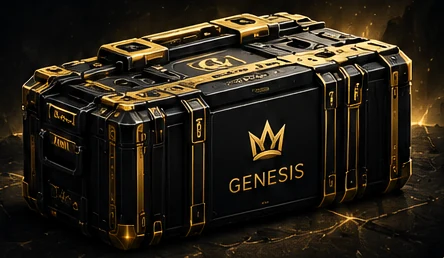
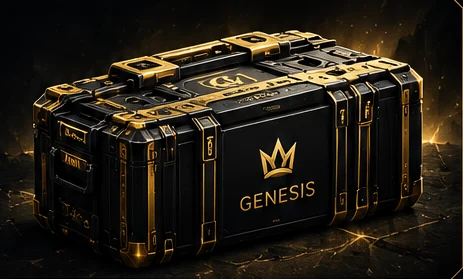
Fix Genesis season hero and date default

diff --git a/src/components/SeasonTab.tsx b/src/components/SeasonTab.tsx
@@ -118,22 +118,38 @@ export default function SeasonTab({ isServerGame, season, loading = false, onSea
 
   return (
     <section className="mx-auto w-full max-w-5xl space-y-4 pb-6 text-white">
-      <header className="relative isolate grid min-h-[210px] grid-cols-[1fr_0.8fr] overflow-hidden rounded-[26px] border border-amber-400/35 bg-[#090b0d] shadow-[0_18px_60px_rgba(0,0,0,.4)] sm:min-h-[260px]">
-        <div className="pointer-events-none absolute inset-0 -z-10 bg-[radial-gradient(ellipse_at_78%_55%,rgba(214,155,38,.22),transparent_40%),linear-gradient(105deg,#111315,#070809_70%)]" />
-        <div className="relative z-10 flex flex-col justify-center p-4 sm:p-7">
-          <div className="flex items-center gap-2 text-[9px] font-black uppercase tracking-[.22em] text-amber-200 sm:text-[11px]"><img src="/assets/season/genesis/season-crown.webp" alt="" className="h-8 w-8 object-contain sm:h-12 sm:w-12" /> Genesis S1</div>
-          <h1 className="mt-1 text-xl font-black uppercase leading-none tracking-tight text-white sm:text-4xl">Season Pass</h1>
-          <p className="mt-2 max-w-sm text-[10px] leading-relaxed text-slate-300 sm:mt-3 sm:text-sm">Выполняй задания, поднимай уровень и забирай эксклюзивные награды.</p>
-          <div className="mt-3 flex items-center gap-2 rounded-xl border border-amber-100/20 bg-black/45 px-2.5 py-2 sm:mt-5 sm:max-w-sm sm:px-3.5 sm:py-3">
+      <header className="relative isolate grid min-h-[220px] grid-cols-[minmax(0,1.1fr)_minmax(0,0.9fr)] grid-rows-[auto_minmax(0,1fr)_auto] gap-x-2 overflow-hidden rounded-[26px] border border-amber-400/35 bg-[#0b0b0d] p-5 shadow-[0_18px_60px_rgba(0,0,0,.4)] sm:min-h-[260px] sm:gap-x-4 sm:p-6">
+        <div className="pointer-events-none absolute inset-0 -z-10 bg-[radial-gradient(ellipse_at_78%_48%,rgba(214,155,38,.16),transparent_48%)]" />
+        <div className="relative z-10 col-span-2 flex min-w-0 items-center gap-2 sm:gap-3">
+          <img src="/assets/season/genesis/season-crown.webp" alt="" className="h-8 w-8 shrink-0 object-contain sm:h-11 sm:w-11" />
+          <h1 className="flex min-w-0 items-baseline gap-2 whitespace-nowrap text-2xl font-extrabold uppercase tracking-wider sm:gap-3 sm:text-3xl">
+            <span className="bg-gradient-to-r from-slate-50 to-slate-300 bg-clip-text text-transparent">GENESIS</span>
+            <span className="text-amber-500">S1</span>
+          </h1>
+        </div>
+        <div className="relative z-10 flex min-w-0 flex-col justify-center">
+          <p className="text-[10px] font-semibold uppercase tracking-[.28em] text-zinc-400 sm:text-sm">SEASON PASS</p>
+          <p className="mt-2 max-w-sm text-[10px] leading-relaxed text-slate-300 sm:text-sm">Выполняй задания, поднимай уровень и забирай эксклюзивные награды.</p>
+        </div>
+        <div className="relative flex min-w-0 items-center justify-center overflow-visible">
+          <img
+            src="/assets/season/genesis/hero-genesis-case.webp"
+            alt="Genesis case"
+            className="relative max-h-[118px] w-full object-contain drop-shadow-[0_12px_30px_rgba(224,164,46,.24)] sm:max-h-[156px]"
+            style={{
+              maskImage: 'radial-gradient(ellipse at center, #000 55%, transparent 95%)',
+              WebkitMaskImage: 'radial-gradient(ellipse at center, #000 55%, transparent 95%)',
+            }}
+            loading="eager"
+          />
+        </div>
+        <div className="relative z-20 col-span-2 mt-2 flex flex-wrap items-center justify-between gap-3">
+          <div className="flex min-w-0 flex-1 items-center gap-2 rounded-xl border border-amber-100/20 bg-black/45 px-2.5 py-2 sm:px-3.5 sm:py-2.5">
             <Clock3 size={19} className="shrink-0 text-amber-300 sm:h-6 sm:w-6" />
             <div className="min-w-0"><p className="text-[8px] text-slate-400 sm:text-[10px]">До конца сезона (МСК)</p><p className="truncate text-[10px] font-black tabular-nums text-amber-200 sm:text-sm">{countdown(season?.season?.endsAt, now)}</p></div>
           </div>
+          {isServerGame && season && <div className="shrink-0 rounded-full border border-amber-300/20 bg-black/60 px-2.5 py-2 text-[9px] font-black text-amber-100 sm:text-[11px]">{season.seasonXp.toLocaleString('ru-RU')} XP · УРОВЕНЬ {season.level}/30</div>}
         </div>
-        <div className="relative flex items-center justify-center overflow-hidden">
-          <div className="absolute inset-0 bg-gradient-to-r from-[#090b0d] via-transparent to-amber-700/10" />
-          <img src="/assets/season/genesis/hero-genesis-case.webp" alt="Genesis case" className="relative h-full w-full object-contain drop-shadow-[0_12px_30px_rgba(224,164,46,.24)]" loading="eager" />
-        </div>
-        {isServerGame && season && <div className="absolute bottom-2 right-3 z-20 rounded-full border border-amber-300/20 bg-black/60 px-2.5 py-1 text-[9px] font-black text-amber-100 sm:bottom-4 sm:right-5 sm:text-[11px]">{season.seasonXp.toLocaleString('ru-RU')} XP · УРОВЕНЬ {season.level}/30</div>}
       </header>
 
       {isServerGame && season && (
@@ -182,7 +198,7 @@ export default function SeasonTab({ isServerGame, season, loading = false, onSea
                     <RewardCard reward={tier.premium} track="premium" level={tier.level} unlocked={unlocked} claimed={premiumClaimed} busy={pendingKey === premiumKey} locked={!season.isPremiumPass} onClaim={() => void claim(tier.level, 'premium')} />
                   </article>
                   {tier.level === 20 && <div className="relative z-10 mx-auto mt-2 grid max-w-[320px] grid-cols-[1fr_auto_1fr] items-center rounded-xl border border-amber-300/50 bg-[radial-gradient(ellipse_at_center,rgba(251,191,36,.13),rgba(8,10,12,.98)_75%)] px-3 py-2 shadow-[0_0_24px_rgba(251,191,36,.12)]"><span className="h-px bg-amber-300/35"/><div className="px-2 text-center"><img src="/assets/season/genesis/vip-license-frame.webp" alt="Рамка SEASON 01 VIP" className="mx-auto h-10 w-24 object-contain sm:h-14 sm:w-32"/><p className="mt-1 text-[8px] font-black tracking-wide text-amber-100 sm:text-[10px]">SEASON 01 // VIP</p><p className="text-[7px] text-slate-400 sm:text-[9px]">Эксклюзивная рамка номера · уровень 20</p></div><span className="h-px bg-amber-300/35"/></div>}
-                  {tier.level === 30 && <div className="relative z-10 mx-auto mt-2 flex max-w-[360px] flex-col items-center overflow-hidden rounded-2xl border border-amber-300/65 bg-[radial-gradient(ellipse_at_50%_25%,rgba(247,183,46,.2),rgba(8,10,12,.98)_70%)] px-4 py-3 text-center shadow-[0_0_30px_rgba(251,191,36,.15)]"><div className="flex items-end justify-center gap-1"><span className="mb-1 text-amber-400">❧</span><img src="/assets/season/genesis/final-genesis-case.webp" alt="Genesis Archive Case" className="h-24 w-44 object-contain sm:h-32 sm:w-56"/><span className="mb-1 rotate-180 text-amber-400">❧</span></div><p className="text-xs font-black uppercase tracking-wide text-amber-100 sm:text-sm">Genesis Archive Case</p><p className="mt-0.5 text-[8px] text-slate-300 sm:text-[10px]">Главный лимитированный приз сезона · уровень 30</p></div>}
+                  {tier.level === 30 && <div className="relative z-10 mx-auto mt-2 flex max-w-[360px] flex-col items-center overflow-hidden rounded-2xl border border-amber-300/65 bg-[radial-gradient(ellipse_at_50%_25%,rgba(247,183,46,.2),rgba(8,10,12,.98)_70%)] px-4 py-3 text-center shadow-[0_0_30px_rgba(251,191,36,.15)]"><div className="flex items-end justify-center gap-1"><span className="mb-1 text-amber-400">❧</span><img src="/assets/season/genesis/final-genesis-case.webp" alt="Genesis Archive Case" className="h-24 w-44 object-contain sm:h-32 sm:w-56" style={{ maskImage: 'radial-gradient(ellipse at center, #000 55%, transparent 98%)', WebkitMaskImage: 'radial-gradient(ellipse at center, #000 55%, transparent 98%)' }}/><span className="mb-1 rotate-180 text-amber-400">❧</span></div><p className="text-xs font-black uppercase tracking-wide text-amber-100 sm:text-sm">Genesis Archive Case</p><p className="mt-0.5 text-[8px] text-slate-300 sm:text-[10px]">Главный лимитированный приз сезона · уровень 30</p></div>}
                 </div>
               );
             })}

diff --git a/api/_lib/season.ts b/api/_lib/season.ts
@@ -68,13 +68,21 @@ export async function ensureSeasonTables(client: PoolClient): Promise<void> {
     CREATE TABLE IF NOT EXISTS game_seasons (
       season_id TEXT PRIMARY KEY,
       name TEXT NOT NULL,
-      ends_at TIMESTAMPTZ,
+      starts_at TIMESTAMPTZ NOT NULL DEFAULT NOW(),
+      ends_at TIMESTAMPTZ NOT NULL DEFAULT (NOW() + INTERVAL '30 days'),
       premium_price_stars INTEGER NOT NULL DEFAULT 250 CHECK (premium_price_stars > 0),
       limited_container_id TEXT,
       is_active BOOLEAN NOT NULL DEFAULT TRUE,
       updated_at TIMESTAMPTZ NOT NULL DEFAULT NOW()
     )
   `);
+  await client.query(`ALTER TABLE game_seasons ADD COLUMN IF NOT EXISTS starts_at TIMESTAMPTZ`);
+  await client.query(`UPDATE game_seasons SET starts_at = updated_at WHERE starts_at IS NULL`);
+  await client.query(`ALTER TABLE game_seasons ALTER COLUMN starts_at SET DEFAULT NOW()`);
+  await client.query(`ALTER TABLE game_seasons ALTER COLUMN starts_at SET NOT NULL`);
+  await client.query(`ALTER TABLE game_seasons ALTER COLUMN ends_at SET DEFAULT (NOW() + INTERVAL '30 days')`);
+  await client.query(`UPDATE game_seasons SET ends_at = starts_at + INTERVAL '30 days' WHERE ends_at IS NULL`);
+  await client.query(`ALTER TABLE game_seasons ALTER COLUMN ends_at SET NOT NULL`);
   await client.query(`CREATE UNIQUE INDEX IF NOT EXISTS game_seasons_single_active_idx ON game_seasons (is_active) WHERE is_active`);
   await client.query(`
     CREATE TABLE IF NOT EXISTS player_season_progress (
@@ -584,6 +592,13 @@ export async function updateSeasonSettings(
   value: string | number | boolean | null,
 ): Promise<void> {
   await ensureSeasonTables(client);
+  if (field === 'ends_at' && value === null) {
+    await client.query(
+      `UPDATE game_seasons SET ends_at = starts_at + INTERVAL '30 days', updated_at = NOW() WHERE season_id = $1`,
+      [seasonId],
+    );
+    return;
+  }
   if (field === 'is_active' && value === true) {
     await client.query('UPDATE game_seasons SET is_active = FALSE, updated_at = NOW() WHERE is_active = TRUE AND season_id <> $1', [seasonId]);
   }

diff --git a/api/_lib/season.test.ts b/api/_lib/season.test.ts
@@ -1,5 +1,5 @@
 import { describe, expect, it } from 'vitest';
-import { isSameStarsPaymentReplay, updateSeasonReward, validateStarsPayment } from './season';
+import { ensureSeasonTables, isSameStarsPaymentReplay, updateSeasonReward, validateStarsPayment } from './season';
 import type { PoolClient } from 'pg';
 import type { StarsPayment } from './season';
 
@@ -46,5 +46,23 @@ describe('season reward configuration', () => {
     expect(save?.values?.slice(0, 6)).toEqual(['season-1-genesis', 4, 'free', 'coins', 1_500, null]);
     expect(String(save?.values?.[6]).replace(/\u00a0/g, ' ')).toBe('1 500 ₽');
     expect(save?.values?.[7]).toBe('Игровая валюта');
+  });
+});
+
+describe('season date defaults', () => {
+  it('stores a start time and fills missing end dates 30 days later', async () => {
+    const statements: string[] = [];
+    const client = {
+      query: async (text: string) => {
+        statements.push(text);
+        return { rows: [], rowCount: 1 };
+      },
+    } as unknown as PoolClient;
+
+    await ensureSeasonTables(client);
+
+    expect(statements[0]).toContain('starts_at TIMESTAMPTZ NOT NULL DEFAULT NOW()');
+    expect(statements[0]).toContain("ends_at TIMESTAMPTZ NOT NULL DEFAULT (NOW() + INTERVAL '30 days')");
+    expect(statements).toContain("UPDATE game_seasons SET ends_at = starts_at + INTERVAL '30 days' WHERE ends_at IS NULL");
   });
 });
